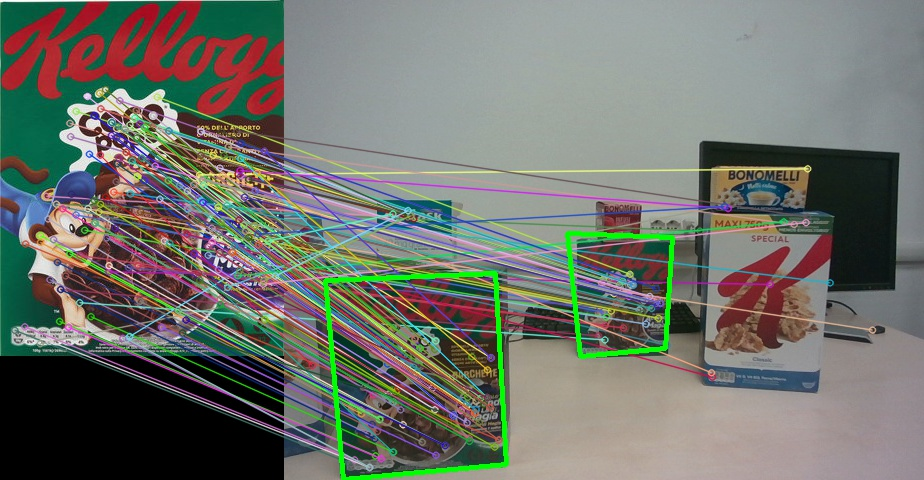
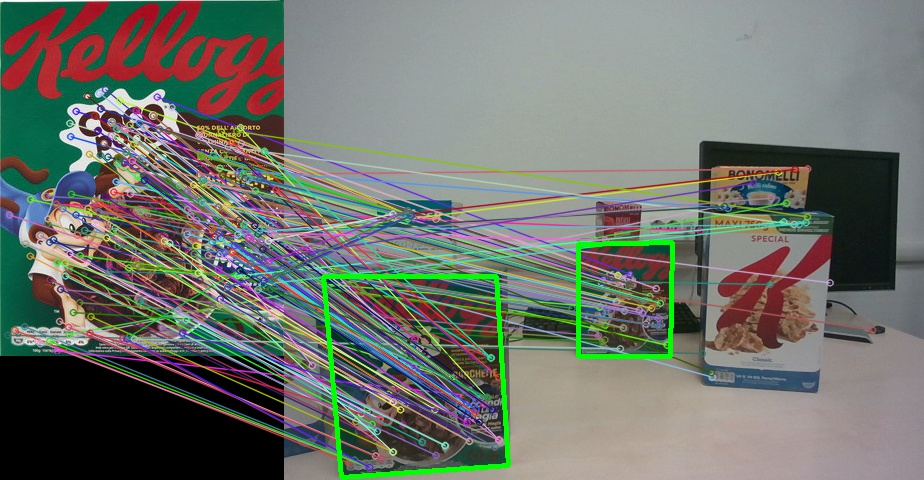
small changes

Changed region(s): [[0.0, 0.1875, 0.9091, 1.0], [0.8485, 0.6562, 0.9394, 0.6875]]

diff --git a/customRansac.py b/customRansac.py
@@ -329,19 +329,21 @@ def buildKDTree(obj, scene, point_cloud):
     tree = KDTree(X, leafsize = 2)
     return tree, corr
 
-def normalSampling3DTree(corr, point_cloud, tree):
+#
+#randomly sample the other 3 points in a certain 3d-tree region containing the closest points
+#
+def sampling3DTree(corr, point_cloud, tree):
     #sampling with a uniform distribution the first match
     corr1 = corr[random.randrange(0, len(corr))]
     #taking the 3D position of the scene feature
     firstPoint = point_cloud[int(corr1[0, 3]), int(corr1[0, 2])]
 
-    #find the corr with min distance from point_sampled
-    dist, ind = tree.query(np.asarray(firstPoint).reshape((1, -1)), k=20)
+    #find the k corrs with min distance from point_sampled
+    dist, ind = tree.query(np.asarray(firstPoint).reshape((1, -1)), k=15)
 
     #random points
     ind = random.sample(list(ind[0]), 3)
 
-    #corr1 + minDistanceThree are the 4 correspondances to return
     corr2 = corr[ind[0]]
     randomFour = np.vstack((corr1, corr2))
     corr3 = corr[ind[1]]
@@ -353,9 +355,9 @@ def normalSampling3DTree(corr, point_cloud, tree):
 
 #
 #Find Homography, sampling is not uniform but based on 3D distance of scene features. Sampling of the first match is random, then
-#sampling of the other 3 points is based on normal distributions on pointcloud x,y,z values (closer points in space will be sampled more frequently)
+#sampling of the other 3 points is based on a kd tree built using the 3 spatial dimensions
 #
-def customFindHomographyNormalSampling3DTree(obj, scene, point_cloud, thresh, tree, corr):
+def customFindHomography3DTree(obj, scene, point_cloud, thresh, tree, corr):
 
     random.seed(1234)
 
@@ -366,7 +368,7 @@ def customFindHomographyNormalSampling3DTree(obj, scene, point_cloud, thresh, tr
         
         mask = np.zeros(shape = (len(obj[:,0])) )
 
-        randomFour = normalSampling3DTree(corr, point_cloud, tree)
+        randomFour = sampling3DTree(corr, point_cloud, tree)
 
         #call the homography function on those points
         h = calculateHomography(randomFour)

diff --git a/template_matching_1.py b/template_matching_1.py
@@ -4,7 +4,7 @@ import numpy.ma as ma
 from customRansac import customFindHomography, buildKDTree
 from customRansac import customFindHomographyPlane3D
 from customRansac import customFindHomographyNormalSampling3D
-from customRansac import customFindHomographyNormalSampling3DTree
+from customRansac import customFindHomography3DTree
 import time
 
 
@@ -23,7 +23,7 @@ matcher = cv.DescriptorMatcher_create(cv.DescriptorMatcher_FLANNBASED)
 knn_matches = matcher.knnMatch(descriptors_obj, descriptors_scene, 2)
 
 #Filter matches using the Lowe's ratio test
-ratio_thresh = 0.83
+ratio_thresh = 0.87
 good_matches = []
 for m,n in knn_matches:
     if m.distance < ratio_thresh * n.distance:
@@ -55,16 +55,16 @@ while((oldSize != newSize) and len(good_matches) >= 20):
         scene[i,1] = keypoints_scene[good_matches[i].trainIdx].pt[1]
 
 
-    print("Building Tree")
+    #print("Building Tree")
     #build KDTree between points in the 3d scene
     tree, corr = buildKDTree(obj, scene, point_cloud)
     
-    print("Find homography")
+    #print("Find homography")
     #H, mask = cv.findHomography(obj, scene, cv.RANSAC, confidence = 0.995, ransacReprojThreshold=5)
     #H, mask =  customFindHomography(obj, scene, 0.4)
     #H, mask =  customFindHomographyPlane3D(obj, scene, point_cloud, 0.55)
     #H, mask = customFindHomographyNormalSampling3D(obj, scene, point_cloud, 0.4, 0.1)
-    H, mask = customFindHomographyNormalSampling3DTree(obj, scene, point_cloud, 0.4, tree, corr)
+    H, mask = customFindHomography3DTree(obj, scene, point_cloud, 0.4, tree, corr)
 
     # H homography from template to scene
     H = np.asarray(H)
